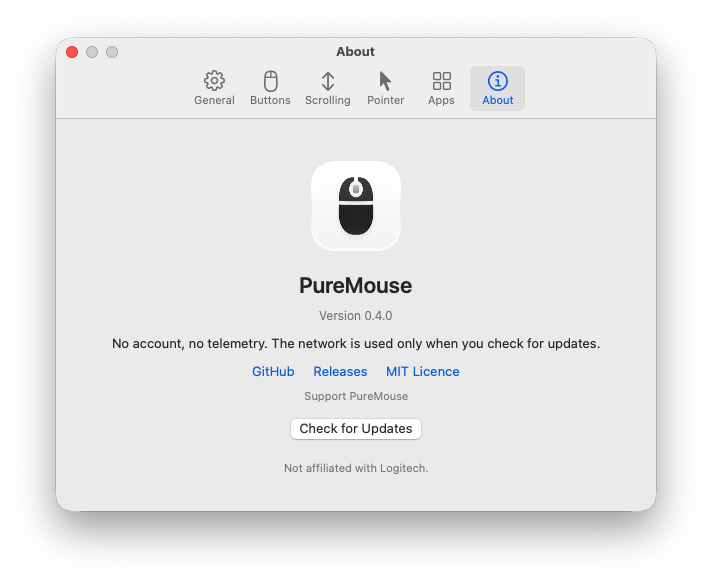
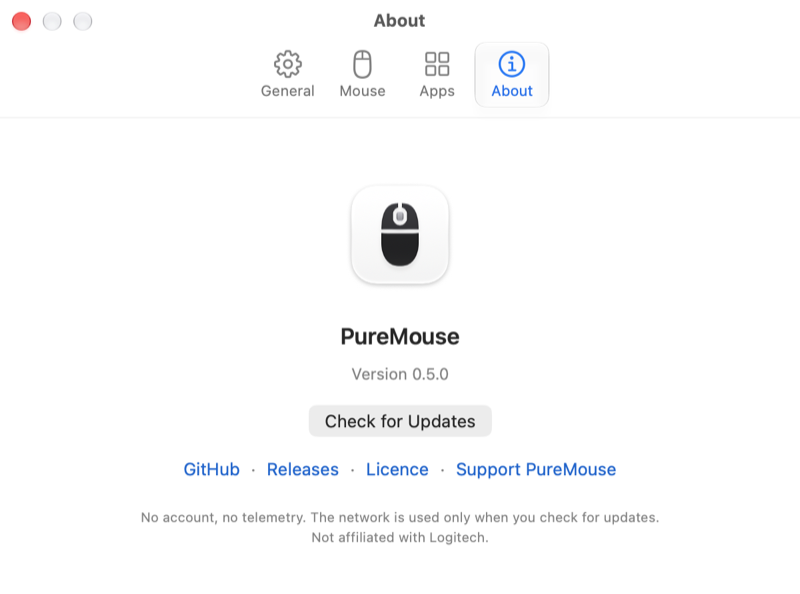
README: retake every Settings screenshot for 0.5.0 and describe the four tabs
Captured on the spare Mac from a debug helper (self-capture, fixture status and
config), the About pane from a temporary bundle that carries the icon and the
0.5.0 version.

diff --git a/README.md b/README.md
@@ -91,14 +91,18 @@ The menu bar shows the mouse and its battery, and switches smooth scrolling, poi
 pause. **Settings…** covers everything else, and changes apply as you make them. Opening
 PureMouse from Applications opens Settings too, even with the menu bar icon hidden.
 
+Settings has four tabs: General, Mouse, Apps and About. Mouse holds Buttons, Scrolling and
+Pointer, and shows only the controls your mouse has. Fine tuning sits behind each pane's
+**Advanced…** button, and each app opens in a sheet that shows what it shares with everywhere else.
+
 <p align="center">
   <picture>
     <source media="(prefers-color-scheme: dark)" srcset="docs/images/settings-buttons-dark.png">
-    <img src="docs/images/settings-buttons-light.png" width="400" align="top" alt="Buttons settings: an action for each button and gesture">
+    <img src="docs/images/settings-buttons-light.png" width="400" align="top" alt="Mouse › Buttons: a gesture button with Mission Control on click, and an action for back, forward, the top button and the wheel click">
   </picture>
   <picture>
     <source media="(prefers-color-scheme: dark)" srcset="docs/images/settings-app-dark.png">
-    <img src="docs/images/settings-app-light.png" width="400" align="top" alt="Google Chrome's own settings: Command-T on the top button and the thumb wheel switching tabs">
+    <img src="docs/images/settings-app-light.png" width="400" align="top" alt="Google Chrome's own settings in a sheet: Command-T on the top button and the thumb wheel switching tabs, with the other buttons the same as everywhere">
   </picture>
 </p>
 
@@ -107,23 +111,23 @@ PureMouse from Applications opens Settings too, even with the menu bar icon hidd
 <p align="center">
   <picture>
     <source media="(prefers-color-scheme: dark)" srcset="docs/images/settings-scrolling-dark.png">
-    <img src="docs/images/settings-scrolling-light.png" width="400" align="top" alt="Scrolling settings: smooth scrolling feel and speed, main wheel direction and mode, thumb wheel switching tabs with its direction">
+    <img src="docs/images/settings-scrolling-light.png" width="400" align="top" alt="Mouse › Scrolling: smooth scrolling with its feel and speed, the main wheel's direction, mode and SmartShift, and the thumb wheel's action">
   </picture>
   <picture>
     <source media="(prefers-color-scheme: dark)" srcset="docs/images/settings-general-dark.png">
-    <img src="docs/images/settings-general-light.png" width="400" align="top" alt="General settings: open at login, whether PureMouse is running, menu bar icon, low battery notification, Universal Control, permissions and files">
+    <img src="docs/images/settings-general-light.png" width="400" align="top" alt="General: whether PureMouse is running, open at login, the menu bar icon, the low battery notification and permissions">
   </picture>
   <picture>
     <source media="(prefers-color-scheme: dark)" srcset="docs/images/settings-apps-dark.png">
-    <img src="docs/images/settings-apps-light.png" width="400" align="top" alt="Apps settings: Chrome, Teams, Word, Preview and Safari, each with its own thumb wheel and buttons">
+    <img src="docs/images/settings-apps-light.png" width="400" align="top" alt="Apps: Chrome, Teams, Word, Preview and Safari, each with its own thumb wheel action or buttons">
   </picture>
   <picture>
     <source media="(prefers-color-scheme: dark)" srcset="docs/images/settings-pointer-dark.png">
-    <img src="docs/images/settings-pointer-light.png" width="400" align="top" alt="Pointer settings: resolution and DPI presets">
+    <img src="docs/images/settings-pointer-light.png" width="400" align="top" alt="Mouse › Pointer: pointer speed at 1,600 DPI with presets of 800, 1,600 and 3,200 DPI">
   </picture>
   <picture>
     <source media="(prefers-color-scheme: dark)" srcset="docs/images/settings-about-dark.png">
-    <img src="docs/images/settings-about-light.png" width="400" align="top" alt="About settings: version, links, Check for Updates and a Support PureMouse link">
+    <img src="docs/images/settings-about-light.png" width="400" align="top" alt="About: version 0.5.0, Check for Updates, and links to GitHub, releases, the licence and Support PureMouse">
   </picture>
 </p>
 </details>
